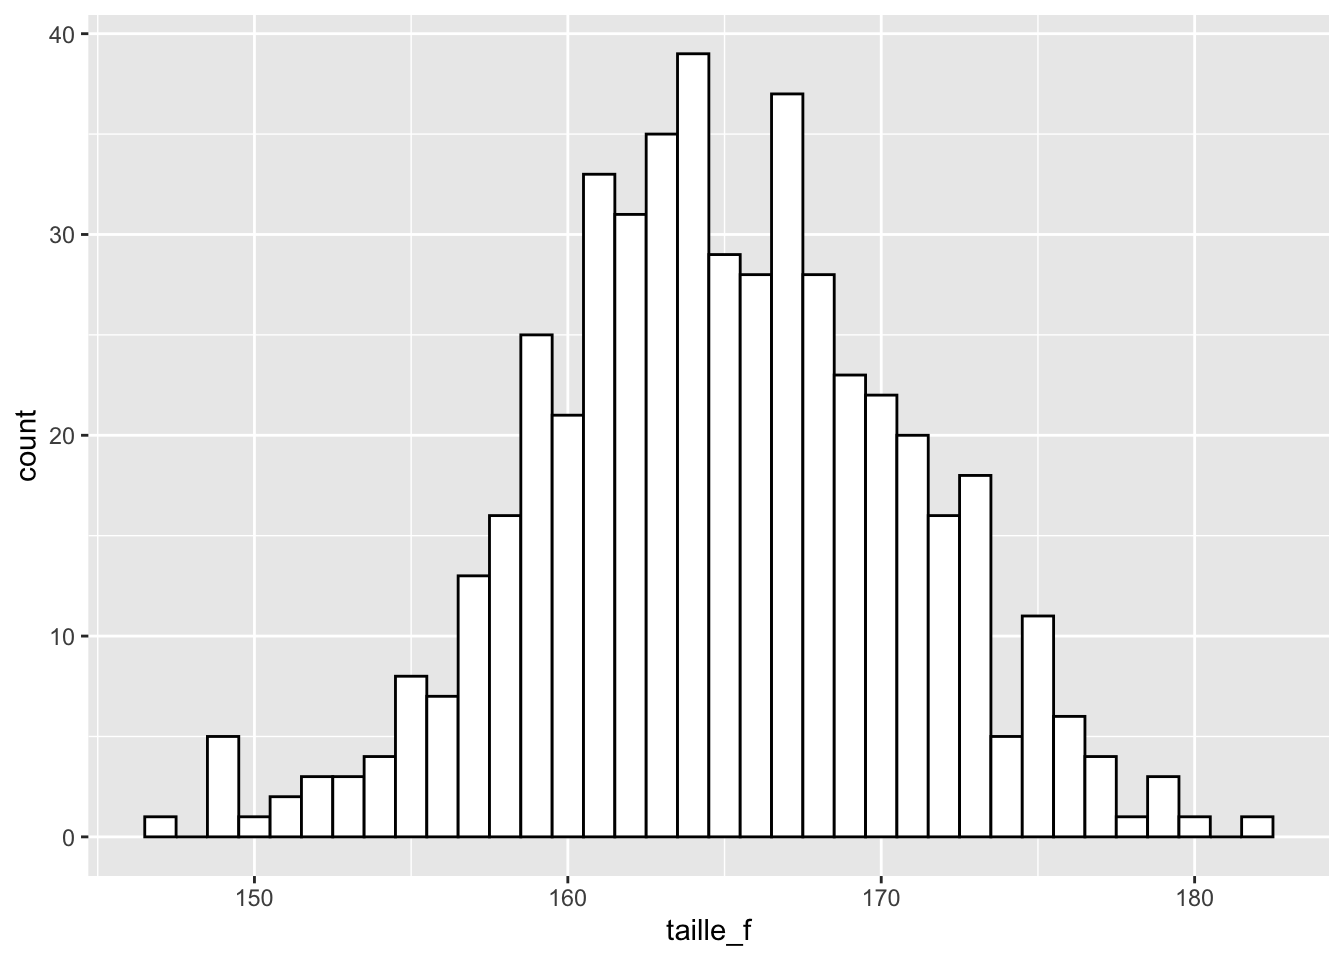
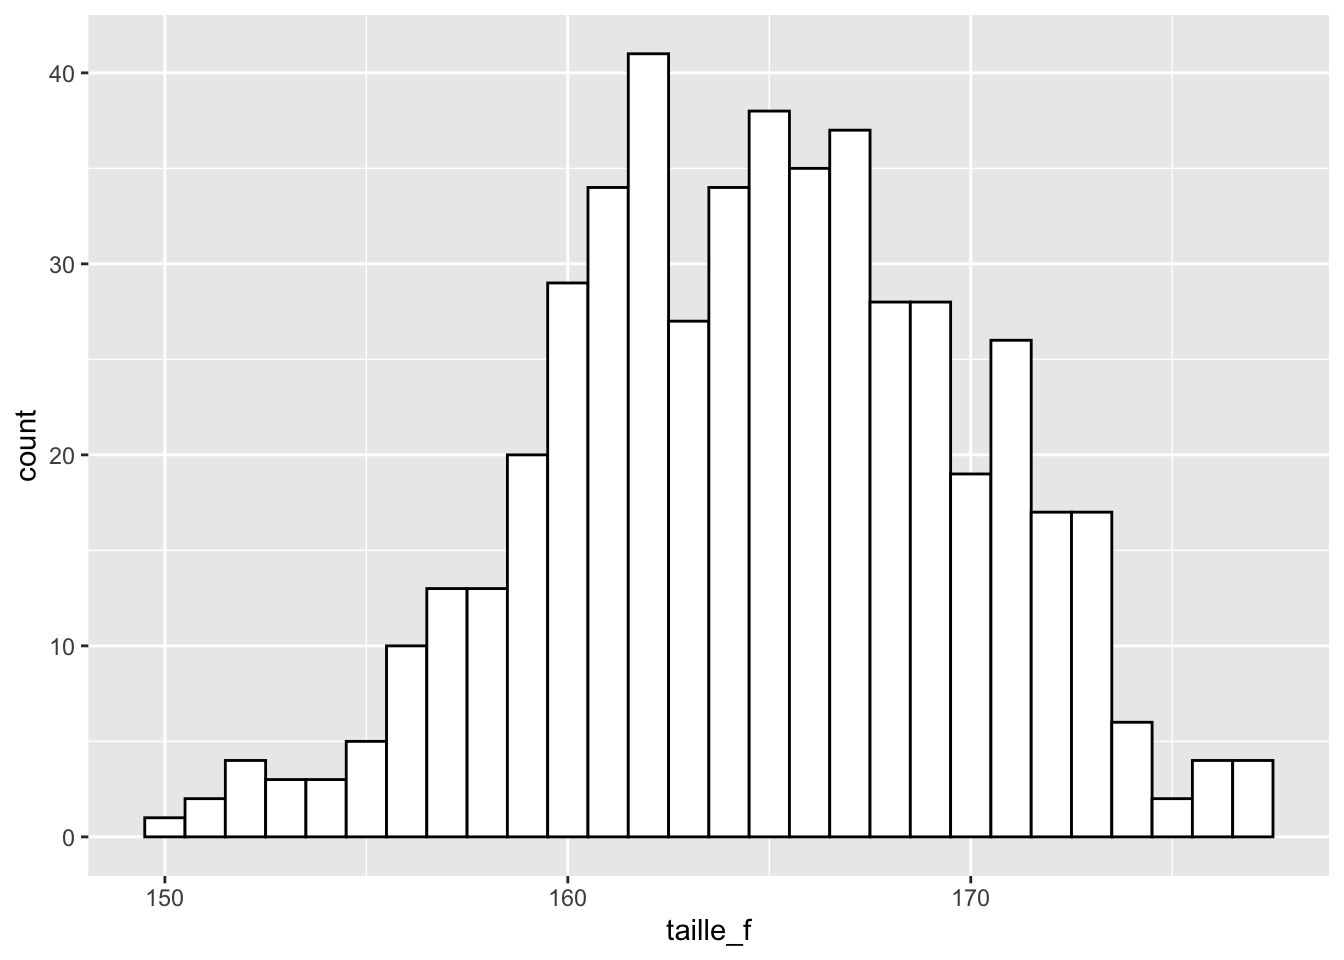
typo ggplot ggthemes

diff --git a/index.html b/index.html
@@ -1517,8 +1517,8 @@ Astuce
 <li>Les boîtes à moustaches (angl. <em>box plots</em>)</li>
 </ol>
 <div class="cell">
-<div class="sourceCode cell-code" id="cb93"><pre class="sourceCode r code-with-copy"><code class="sourceCode r"><span id="cb93-1"><a href="#cb93-1" aria-hidden="true" tabindex="-1"></a><span class="co"># N'oubliez pas de charger les paquets tidyverse et ggplot2</span></span>
-<span id="cb93-2"><a href="#cb93-2" aria-hidden="true" tabindex="-1"></a><span class="co"># !  Exécutez le code suivant pour le faire :</span></span>
+<div class="sourceCode cell-code" id="cb93"><pre class="sourceCode r code-with-copy"><code class="sourceCode r"><span id="cb93-1"><a href="#cb93-1" aria-hidden="true" tabindex="-1"></a><span class="co"># N'oubliez pas de charger les paquets tidyverse et</span></span>
+<span id="cb93-2"><a href="#cb93-2" aria-hidden="true" tabindex="-1"></a><span class="co"># ggthemes !  Exécutez le code suivant pour le faire :</span></span>
 <span id="cb93-3"><a href="#cb93-3" aria-hidden="true" tabindex="-1"></a><span class="fu">library</span>(tidyverse)</span>
 <span id="cb93-4"><a href="#cb93-4" aria-hidden="true" tabindex="-1"></a><span class="fu">library</span>(ggthemes)</span></code><button title="Copy to Clipboard" class="code-copy-button"><i class="bi"></i></button></pre></div>
 </div>
@@ -1715,7 +1715,7 @@ Attention
 <span id="cb100-5"><a href="#cb100-5" aria-hidden="true" tabindex="-1"></a></span>
 <span id="cb100-6"><a href="#cb100-6" aria-hidden="true" tabindex="-1"></a><span class="fu">head</span>(taille_f)</span></code><button title="Copy to Clipboard" class="code-copy-button"><i class="bi"></i></button></pre></div>
 <div class="cell-output cell-output-stdout">
-<pre><code>[1] 164.6463 167.0230 164.2543 162.9139 174.9919 165.7301</code></pre>
+<pre><code>[1] 173.0309 159.8347 162.6290 166.0102 163.0940 161.7086</code></pre>
 </div>
 <div class="sourceCode cell-code" id="cb102"><pre class="sourceCode r code-with-copy"><code class="sourceCode r"><span id="cb102-1"><a href="#cb102-1" aria-hidden="true" tabindex="-1"></a><span class="co"># stocker taille_f comme objet de type 'data.frame'</span></span>
 <span id="cb102-2"><a href="#cb102-2" aria-hidden="true" tabindex="-1"></a>taille_f <span class="ot">&lt;-</span> <span class="fu">as.data.frame</span>(taille_f)</span>
